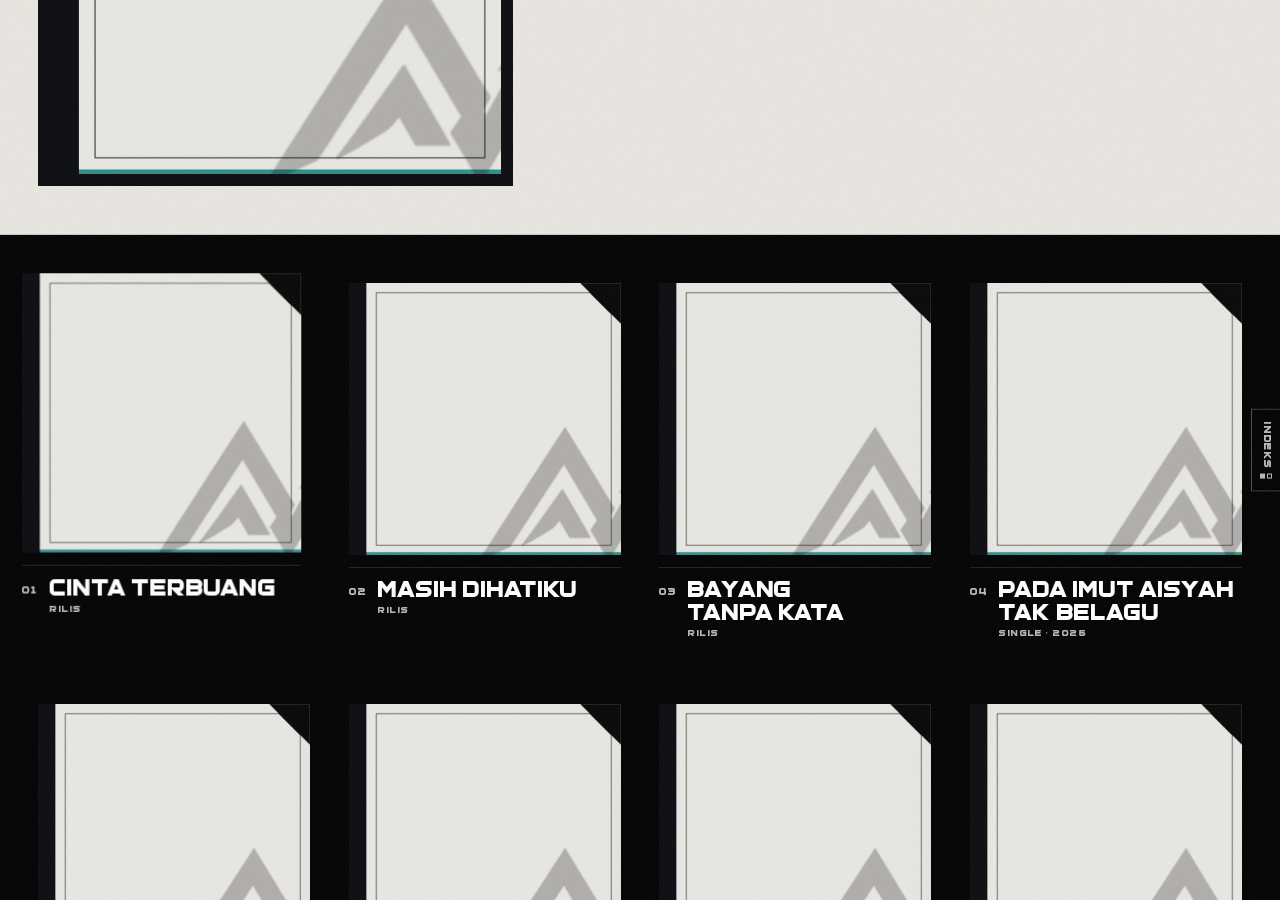
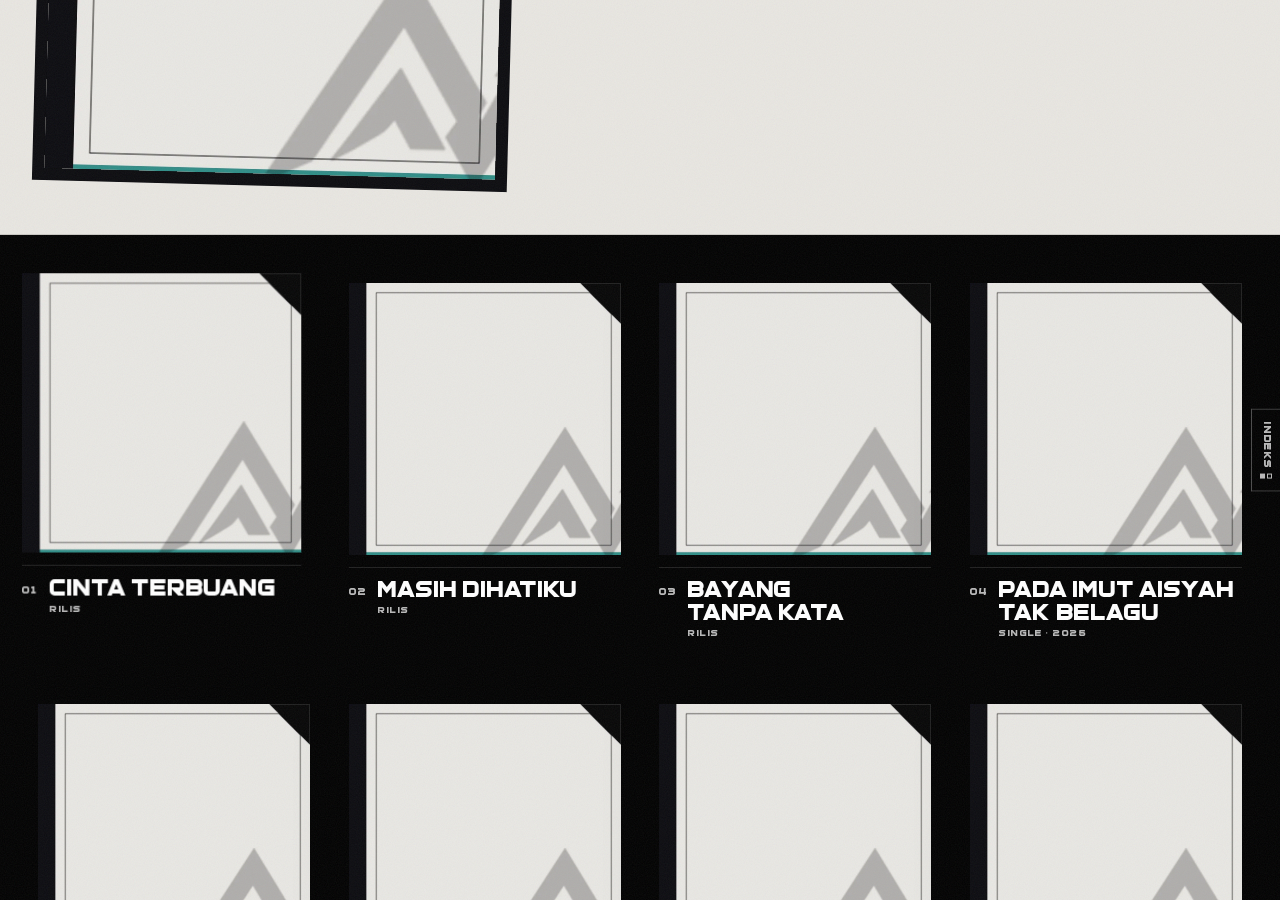
Round 28: recompose the fold — directional hero light, bone facts strip, tilted poster, quote on paper
- hero: ink holds the left column, photograph breathes right (object-position
  68/40 + one directional gradient); name locks bottom-left; facts close the
  fold as a bone stock strip; scroll cue marker removed
- root-caused the floating facts strip: min-height leaves a flex container
  content-high, so children never grow — .hero now has a definite height
- transmission: sleeve tilts -1.5deg on its plinth, title sets right, AN mark
  ghosts behind the poster at 6%; /music featured sleeve +1.5deg
- night pull-quote becomes a bone sheet laid over the photograph, offset left
- index head carries the real catalogue count instead of decorative numbering
- monogram band 92svh -> 74svh for page rhythm
- verified: a11y 0/16, qa 22/22, shots 19, check:web 189.5/17.1 KB gz,
  perf 0 longtasks 57-59fps at 4x throttle; screenshots reviewed pre-commit

Changed region(s): [[0.0, 0.0, 0.4062, 0.2178]]

diff --git a/src/app/(site)/page.module.css b/src/app/(site)/page.module.css
@@ -25,7 +25,10 @@
   isolation: isolate;
   display: flex;
   flex-direction: column;
-  min-height: min(100svh, 58rem);
+  /* A definite height, not a min-height: flex children only grow into free space the container
+     actually has, and `min-height` leaves the container content-high — which is exactly how the
+     facts strip ended up floating mid-screen with dead ink below it (round 28). */
+  height: min(100svh, 58rem);
   overflow: hidden;
   /* The hero writes transforms every frame while it is in view; this keeps that work inside the
      band instead of invalidating the whole document (R11). */
@@ -48,8 +51,8 @@
   width: 100%;
   height: 100%;
   object-fit: cover;
-  object-position: 50% 34%;
-  opacity: 0.85;
+  object-position: 68% 40%;
+  opacity: 0.9;
 }
 
 /*
@@ -65,10 +68,18 @@
    * see is a black rectangle with type on it. Lighter at the top and middle so the stage reads as
    * a place; the floor still falls to ink so the facts bar sits on solid ground.
    */
-  background: linear-gradient(
-    to bottom,
-    rgb(0 0 0 / 0.58) 0%,
-    rgb(0 0 0 / 0.26) 34%,
+  background:
+    linear-gradient(
+      to right,
+      rgb(0 0 0 / 0.9) 0%,
+      rgb(0 0 0 / 0.62) 38%,
+      rgb(0 0 0 / 0.18) 72%,
+      rgb(0 0 0 / 0) 100%
+    ),
+    linear-gradient(
+      to bottom,
+      rgb(0 0 0 / 0.42) 0%,
+      rgb(0 0 0 / 0.18) 34%,
     rgb(0 0 0 / 0.42) 62%,
     var(--color-bg) 96%
   );
@@ -80,6 +91,20 @@
   z-index: 2;
   display: flex;
   flex: 1 1 auto;
+}
+
+/* Plate3D's own `.stage` rule sets display and lands later in the bundle, so the fold only closes
+   with a selector that out-ranks it: without these two rules the tilt wrapper stays a content-high
+   block and the facts strip floats mid-screen instead of closing the first fold. */
+.hero > .heroStage {
+  display: flex;
+  flex: 1 1 auto;
+}
+
+.heroStage > * {
+  display: flex;
+  flex: 1 1 auto;
+  flex-direction: column;
 }
 
 /*
@@ -229,8 +254,9 @@
   justify-content: space-between;
   gap: var(--space-6);
   margin-top: var(--space-8);
-  padding-top: var(--space-4);
-  border-top: 1px solid var(--color-hairline);
+  padding: var(--space-4) var(--space-6);
+  background: var(--color-bone);
+  color: var(--color-bone-ink);
 }
 
 .facts {
@@ -251,7 +277,7 @@
   font-size: 0.5625rem;
   letter-spacing: 0.22em;
   text-transform: uppercase;
-  color: var(--color-text-muted);
+  color: var(--color-bone-muted);
 }
 
 .fact dd {
@@ -260,26 +286,11 @@
   font-weight: 400;
   font-size: clamp(1.3rem, 2.2vw, 1.9rem);
   line-height: 1;
+  color: var(--color-bone-ink);
   letter-spacing: var(--tracking-tight);
 }
 
-.cue {
-  display: inline-flex;
-  align-items: center;
-  gap: var(--space-3);
-  font-family: var(--font-body-stack);
-  font-size: 0.5625rem;
-  letter-spacing: 0.24em;
-  text-transform: uppercase;
-  color: var(--color-text-muted);
-}
 
-.cueLine {
-  display: block;
-  width: 72px;
-  height: 1px;
-  background: var(--color-hairline-strong);
-}
 
 /* -------------------------------------------------------------------------------- monogram */
 
@@ -296,7 +307,7 @@
   display: flex;
   flex-direction: column;
   justify-content: flex-end;
-  min-height: 92svh;
+  min-height: 74svh;
   overflow: hidden;
   background: var(--color-band-monogram);
 }
@@ -338,6 +349,8 @@
 /* ----------------------------------------------------------------------------- transmission */
 
 .transmission {
+  position: relative;
+  overflow: hidden;
   padding-block: var(--section-padding);
   border-top: 1px solid var(--color-hairline);
   /*
@@ -363,6 +376,19 @@
 .transmissionArt {
   background: var(--color-bone-ink);
   padding: var(--space-3);
+  /* A pasted poster is never perfectly square on the wall. One and a half degrees, no more. */
+  rotate: -1.5deg;
+}
+
+.transmissionGhost {
+  position: absolute;
+  top: var(--space-8);
+  right: calc(var(--gutter) * -1);
+  z-index: 0;
+  width: clamp(16rem, 34vw, 34rem);
+  height: auto;
+  opacity: 0.06;
+  pointer-events: none;
 }
 
 .transmissionHead {
@@ -407,6 +433,9 @@
 }
 
 .transmissionTitle {
+  position: relative;
+  z-index: 1;
+  text-align: right;
   font-family: var(--font-body-stack);
   /* Round 22 takeover: the release that owns the screen prints almost as loud as the name. */
   font-size: var(--text-takeover);
@@ -565,6 +594,16 @@
 
 
 /* "INDEKS" is a section title, not a hero: 6vw keeps it subordinate to the name on the same page. */
+.railCount {
+  margin: calc(var(--space-2) * -1) 0 var(--space-4);
+  font-family: var(--font-body-stack);
+  font-size: var(--text-label);
+  letter-spacing: var(--tracking-label);
+  text-transform: uppercase;
+  color: var(--color-text-muted);
+  text-align: right;
+}
+
 .indexTitle {
   margin-top: var(--space-6);
   margin-bottom: var(--space-4);
@@ -606,14 +645,18 @@
 }
 
 .nightQuote {
+  /*
+   * Round 28: the pull-quote is a sheet of the label's stock laid over the photograph, offset to
+   * the left edge instead of centred — type never sits on a photograph, but paper can.
+   */
   position: relative;
   z-index: 2;
-  max-width: min(26ch, 90%);
-  margin: 0 auto;
-  padding-inline: var(--gutter);
-  padding-bottom: var(--space-8);
+  max-width: min(34ch, calc(100% - var(--space-12)));
+  margin: 0 auto var(--space-8) var(--gutter);
+  padding: var(--space-4) var(--space-6);
+  background: var(--color-bone);
+  color: var(--color-bone-ink);
   font-family: var(--font-body-stack);
-  color: var(--color-text-secondary);
   font-weight: 400;
   font-size: clamp(1.5rem, 3.6vw, 2.9rem);
   line-height: 1.3;
@@ -766,6 +809,20 @@
  */
 @media (max-width: 899px) {
   .hero {
+    height: auto;
+    min-height: auto;
+  }
+
+  .transmissionTitle {
+    text-align: left;
+  }
+
+  .transmissionGhost {
+    width: 16rem;
+    top: var(--space-4);
+  }
+
+  .hero {
     min-height: auto;
   }
 
@@ -799,6 +856,7 @@
   }
 
   .nightQuote {
-    max-width: 100%;
+    max-width: calc(100% - var(--space-8));
+    margin-inline: var(--gutter);
   }
 }

diff --git a/src/app/(site)/page.tsx b/src/app/(site)/page.tsx
@@ -208,10 +208,6 @@ export default async function HomePage() {
                   <dd>{officialLinkCount}</dd>
                 </div>
               </dl>
-              <p className={styles.cue} aria-hidden="true">
-                <span>Gulir</span>
-                <span className={styles.cueLine} />
-              </p>
             </div>
           </div>
         </Plate3D>
@@ -243,6 +239,19 @@ export default async function HomePage() {
 
       {/* ------------------------------------------------------------- transmission */}
       <section className={styles.transmission} id="music" aria-labelledby="music-title">
+        {/* Round 28: the label's mark ghosts behind the campaign poster — artwork, portrait and
+            monogram share one identity, so the poster carries the mark at 5%, not as a logo box. */}
+        {/* eslint-disable-next-line @next/next/no-img-element -- identity ghost, cached bake */}
+        <img
+          className={styles.transmissionGhost}
+          src={anMark.src}
+          alt=""
+          width={anMark.width}
+          height={anMark.height}
+          loading="lazy"
+          decoding="async"
+          aria-hidden="true"
+        />
         <Container>
           <div className={styles.transmissionHead}>
             <p className={styles.sectionNumber}>Rilis terbaru</p>
@@ -295,6 +304,9 @@ export default async function HomePage() {
           <h2 id="catalogue-title" className={styles.indexTitle}>
             Indeks
           </h2>
+          <p className={styles.railCount}>
+            {stats.releaseCount} rilis · sejak {siteConfig.since}
+          </p>
           {/*
             Round 23: the index is the data, the rail is the object. Ten sleeves in a horizontal
             scroll-snap rail under the rows — native overflow, no script, no second loop — because

diff --git a/src/app/(site)/music/music.module.css b/src/app/(site)/music/music.module.css
@@ -34,6 +34,8 @@
 .featuredSleeve {
   background: var(--color-bone-ink);
   padding: var(--space-3);
+  /* Same half-degree language as the home poster: one series, one hand. */
+  rotate: 1.5deg;
 }
 
 .featuredHead {

diff --git a/docs/08-IMPLEMENTATION/design-review/round28/README.md b/docs/08-IMPLEMENTATION/design-review/round28/README.md
@@ -1,0 +1,52 @@
+# Round 28 — the fold finally looks like a label, not a template
+
+The owner's read after round 27 was correct in effect: the fixes had been surgical but invisible —
+removals and under-the-hood work leave the same silhouette. Round 28 changes the silhouette:
+composition, rhythm and material, not colour swaps or font sizes.
+
+## What changed on screen
+
+- **Hero recomposed.** The scrim stopped burying the photograph evenly: ink holds the left column
+  where the name locks to the bottom-left baseline, and falls away to the right so the stage light
+  breathes (`object-position 68% 40%`, one directional gradient + one floor fade). The facts row is
+  no longer a hairline in the dark — it closes the first fold as a strip of the label's bone stock,
+  the same paper the takeovers print on. The "Gulir" cue (a marker) is gone.
+  Root cause of the floating strip found and fixed on the way: `.hero` used `min-height`, and flex
+  children only grow into free space a container definitely has — with `min-height` the container
+  stays content-high and the strip floated mid-screen with dead ink below.
+- **Takeover as a pasted poster.** The featured sleeve tilts −1.5° on its ink plinth, the release
+  title sets right against the left-set labels, and the AN mark ghosts behind the poster at 6% —
+  artwork, portrait and monogram now share one identity on the same screen.
+- **Night quote on paper.** The pull-quote left the photograph: it is a bone sheet laid over the
+  frame, offset to the left edge. Type never sits on a photograph; paper can.
+- **Index head carries its real count** ("10 rilis · sejak 2020", from the catalogue, right-set
+  against the left title) instead of decorative numbering.
+- **The water band breathes at 74svh** instead of 92, keeping the page's rhythm moving between the
+  name and the poster.
+- **/music featured sleeve** tilts +1.5° — one series, one hand.
+- Mobile: hero stacks with the bone strip intact; the quote plate keeps gutter margins; the
+  takeover title returns to the left.
+
+## What did not change
+
+Tokens, CSS Modules, the scroll engine, Lenis wheel-smoothing, the baked monogram and its
+pointer-water, the studio photo pipeline, every gate contract. No new dependency, no new rAF loop,
+no canvas/WebGL, no fabricated content: the count line and the facts strip read only catalogue and
+`siteConfig` values.
+
+## Verification
+
+- typecheck 0 · lint 0 · tokens 91 · tests 132/132 · a11y 0 violations / 16 loads · qa:motion
+  22/22 · review:shots 19/19 · check:web JS 189.5 KB gz / CSS 17.1 KB gz.
+- Perf re-measured after the redesign (longtask + frame delta, standardized wheel scroll, CPU 4x):
+  home 1440px 57 fps, 0 longtasks, worst frame 83 ms; home 390px dpr2 59 fps, 0 longtasks.
+  The new paint cost is one static directional gradient and compositor-only `rotate`.
+- Screenshots reviewed by eye at 1440 and 390 before commit: `d-home-hero`, `d-home-takeover`,
+  `d-home-night`, `d-home-rail`, `d-music-featured`, `m-home-hero`, `m-home-night`.
+
+## Incident note (process, not product)
+
+One edit script this round sliced a CSS range with inverted indices and produced a 407k-line
+`page.module.css` (replace of an empty string). Caught by `git diff --stat` before any gate ran;
+the file was restored from HEAD and every edit re-applied with asserted anchors. No bad state was
+ever built, served or committed.
